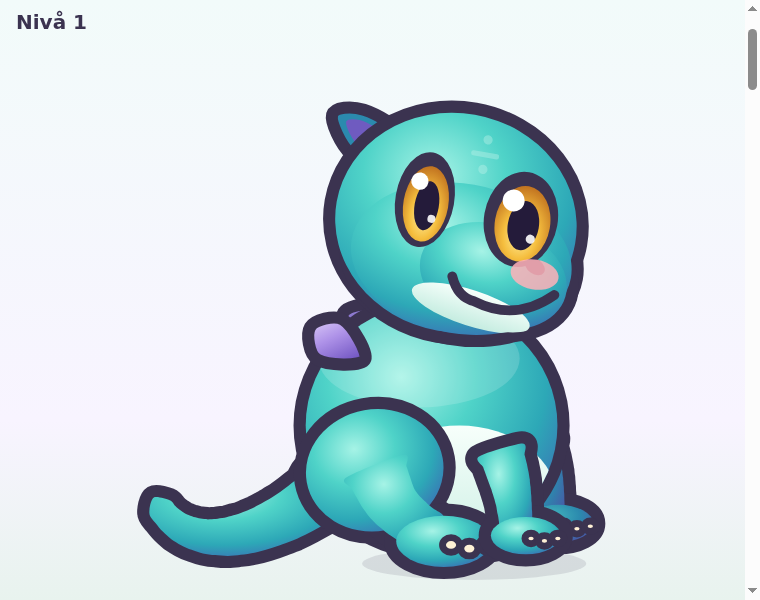
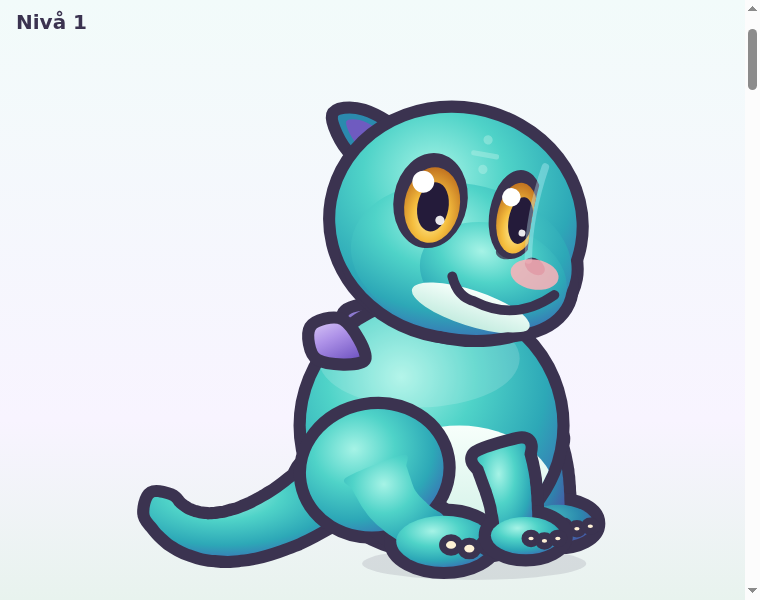
issue #718: bortre ögat i perspektiv – förkortat och delvis skymt av nosryggen, nya skärmdumpar

Changed region(s): [[0.5145, 0.24, 0.7566, 0.45]]

diff --git a/src/brakresan/art-drake-delar.js b/src/brakresan/art-drake-delar.js
@@ -57,22 +57,36 @@ export const F = (u, id) => `url(#${u}${id})`;
 
 // --- Ansikte ----------------------------------------------------------------
 
-/** Ett öga. far = bortre ögat (smalare). vuxen 0..1 gör ögat mindre/lugnare. */
+/**
+ * Ett öga. far = bortre ögat i trekvartsvyn: förkortat (smalare, lite lägre)
+ * och med högerkanten skymd bakom nosryggen, så att det sitter inne i huvudet
+ * i stället för ute på konturen. vuxen 0..1 gör ögat mindre/lugnare.
+ */
 export function oga(x, y, r, { u, far = false, vuxen = 0, lw = 3 }) {
-  const rx = r * 0.86 * (far ? 0.8 : 1), ry = r * (1.12 - 0.22 * vuxen);
+  const rx = r * 0.86 * (far ? 0.72 : 1), ry = r * (1.12 - 0.22 * vuxen) * (far ? 0.94 : 1);
+  // Bortre ögat tittar åt samma håll: pupillen förskjuts mot nosryggen.
+  const px = far ? 0.22 : 0.1;
   const brynY = y - ry * 1.05;
+  // Nosryggen (bara bortre ögat): ögat slutar här, en ljus glans markerar ryggen.
+  const kant = x + rx * 0.72;
+  const rygg = `M${r1(kant + 0.3)} ${r1(y - ry * 1.15)} Q${r1(kant - rx * 0.25)} ${r1(y)} ${r1(kant + 0.2)} ${r1(y + ry * 0.95)}`;
   const bryn = vuxen > 0.35
-    ? `<path d="M${r1(x - rx * 1.25)} ${r1(brynY + ry * 0.35)} Q${r1(x)} ${r1(brynY - ry * 0.45)} ${r1(x + rx * 1.3)} ${r1(brynY + ry * 0.05)}" fill="none" stroke="#1E6C92" stroke-width="${r1(lw * (0.6 + vuxen))}" stroke-linecap="round"/>`
+    ? `<path d="M${r1(x - rx * 1.25)} ${r1(brynY + ry * 0.35)} Q${r1(x)} ${r1(brynY - ry * 0.45)} ${r1(far ? kant + 0.5 : x + rx * 1.3)} ${r1(brynY + ry * (far ? 0.15 : 0.05))}" fill="none" stroke="#1E6C92" stroke-width="${r1(lw * (0.6 + vuxen) * (far ? 0.85 : 1))}" stroke-linecap="round"/>`
     : "";
-  return (
+  const oga =
     `<g class="bd-oga" style="transform-origin:${r1(x)}px ${r1(y)}px">` +
     `<ellipse cx="${r1(x)}" cy="${r1(y)}" rx="${r1(rx)}" ry="${r1(ry)}" fill="${O}"/>` +
     `<ellipse cx="${r1(x + rx * 0.06)}" cy="${r1(y + ry * 0.08)}" rx="${r1(rx * 0.76)}" ry="${r1(ry * 0.8)}" fill="${F(u, "i")}"/>` +
-    `<ellipse cx="${r1(x + rx * 0.1)}" cy="${r1(y + ry * 0.12)}" rx="${r1(rx * (0.42 - 0.1 * vuxen))}" ry="${r1(ry * 0.52)}" fill="${PAL.pupill}"/>` +
-    `<circle cx="${r1(x - rx * 0.28)}" cy="${r1(y - ry * 0.36)}" r="${r1(rx * 0.3)}" fill="#fff"/>` +
+    `<ellipse cx="${r1(x + rx * px)}" cy="${r1(y + ry * 0.12)}" rx="${r1(rx * (0.42 - 0.1 * vuxen) * (far ? 1.1 : 1))}" ry="${r1(ry * 0.52)}" fill="${PAL.pupill}"/>` +
+    `<circle cx="${r1(x - rx * 0.28)}" cy="${r1(y - ry * 0.36)}" r="${r1(rx * (far ? 0.34 : 0.3))}" fill="#fff"/>` +
     `<circle cx="${r1(x + rx * 0.34)}" cy="${r1(y + ry * 0.38)}" r="${r1(rx * 0.13)}" fill="#fff" opacity="0.9"/>` +
-    `</g>` + bryn
-  );
+    `</g>`;
+  if (!far) return oga + bryn;
+  const klipp = `M${r1(x - rx * 3)} ${r1(y - ry * 3)} L${r1(kant + 0.6)} ${r1(y - ry * 3)} L${r1(kant + 0.6)} ${r1(y - ry * 1.5)} ` +
+    `Q${r1(kant - rx * 0.3)} ${r1(y)} ${r1(kant + 0.4)} ${r1(y + ry * 1.3)} L${r1(kant + 0.4)} ${r1(y + ry * 3)} L${r1(x - rx * 3)} ${r1(y + ry * 3)}Z`;
+  return `<clipPath id="${u}of"><path d="${klipp}"/></clipPath>` +
+    `<g clip-path="url(#${u}of)">${oga}${bryn}</g>` +
+    `<path d="${rygg}" fill="none" stroke="#C9F6FF" stroke-width="${r1(lw * 0.6)}" stroke-linecap="round" opacity="0.35"/>`;
 }
 
 /** Bråkrunan ÷ (prick–streck–prick). */
@@ -185,8 +199,9 @@ export function huvud(h, u, lw) {
     })();
 
   const eR = 7.4 - 2.2 * v;
-  fram += oga(-6 + v, -3, eR, { u, far: true, vuxen: v, lw });
-  fram += oga(11 + 2.5 * v, -2.5, eR, { u, vuxen: v, lw });
+  // Närmre ögat till vänster, bortre ögat mot nosen (förkortat, delvis skymt).
+  fram += oga(-5 + v, -3, eR, { u, vuxen: v, lw });
+  fram += oga(10 + 1.5 * v, -3.2, eR, { u, far: true, vuxen: v, lw });
   if (h.kinder) fram += `<ellipse cx="${r1(15 + 3 * v)}" cy="${r1(6.5)}" rx="4.2" ry="2.6" fill="#FFB1B8" opacity="${h.kinder}"/>`;
   // Bråkrunan i pannan.
   const rs = 2.6 + 0.4 * v;
